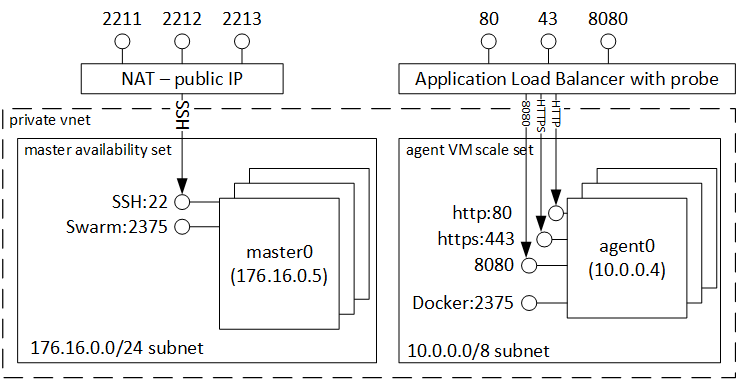
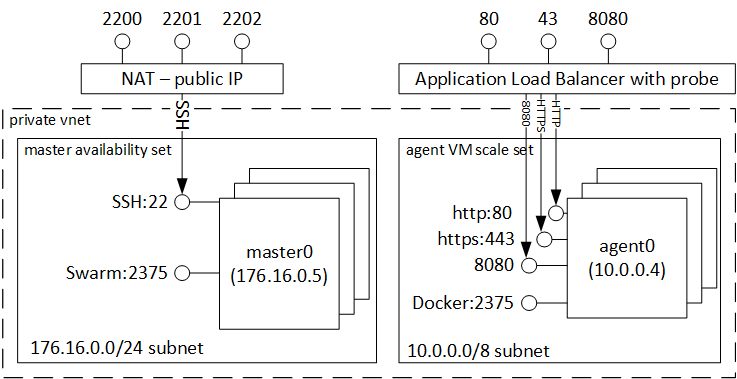
update swarm readme file

diff --git a/acs-swarm-full-template/docs/SwarmPreviewWalkthrough.md b/acs-swarm-full-template/docs/SwarmPreviewWalkthrough.md
@@ -4,20 +4,15 @@ This walkthrough assumes you have deployed an ACS cluster with a Docker Swarm or
 
  Once your container service has been created you will have a resource group containing 2 parts:
 
-1. a set of 1,3,5 masters in a master specific availability set.  Each master's SSH can be accessed via the public dns address at ports 2200..2204
+1. a set of 1,3, or 5 masters in a master specific availability set.  Each master's SSH can be accessed via the public dns address at ports 2200..2204
 
-2. a set of agents behind in an agent specific availability set.  The agent VMs must be accessed through the master.
+2. a set of agents in a VM scale set (VMSS).  The agent VMs must be accessed through the master.  See [agent forwarding]([SSH Key Generation](https://github.com/rgardler/azure-quickstart-templates/blob/acs/acs-swarm-full-template/docs/SSHKeyManagement.md#key-management-and-agent-forwarding-with-windows-pageant) for an example of how to do this.
 
-The following image is an example of a container service with 3 masters, and 3 agents:
+The following image shows the architecture of a container service cluster with 3 masters, and 3 agents:
 
  ![Image of Swarm container service on azure](https://raw.githubusercontent.com/rgardler/azure-quickstart-templates/acs/acs-swarm-full-template/images/swarm.png)
 
- All VMs are in the same VNET where the masters are on private subnet 176.16.0.0/24 and the agents are on the private subnet, 10.0.0.0/8, and fully accessible to each other.
-## Deployment Notes
-
-Here are notes for troubleshooting:
-  * the installation log for the masters, agents, and jumpbox are in /var/log/azure/cluster-bootstrap.log
-  * even though the agent VMs finish quickly Mesos can take 5-15 minutes to install, check /var/log/azure/cluster-bootstrap.log for the completion status.
+ All VMs are in the same VNET where the masters are on private subnet 172.16.0.0/24 and the agents are on the private subnet, 10.0.0.0/8, and fully accessible to each other.
 
 ## Explore Swarm with Simple hello world
  1. After successfully deploying the template write down the two output master and agent FQDNs (Fully Qualified Domain Name).
@@ -29,10 +24,10 @@ Here are notes for troubleshooting:
     4. then click on the "Microsoft.Template"
     5. now you can copy the output FQDNs and sample SSH commands
     ![Image of docker scaling](https://raw.githubusercontent.com/rgardler/azure-quickstart-templates/acs/acs-swarm-full-template/images/findingoutputs.png)
- 2. SSH to port 2200 of the master FQDN
- 3. Type `docker -H 176.16.0.5:2375 info` to see the status of the agent nodes.
+ 2. SSH to port 2200 of the master FQDN. See [agent forwarding]([SSH Key Generation](https://github.com/rgardler/azure-quickstart-templates/blob/acs/acs-swarm-full-template/docs/SSHKeyManagement.md#key-management-and-agent-forwarding-with-windows-pageant) for an example of how to do this.
+ 3. Type `docker -H 172.16.0.5:2375 info` to see the status of the agent nodes.
  ![Image of docker info](https://raw.githubusercontent.com/rgardler/azure-quickstart-templates/acs/acs-swarm-full-template/images/dockerinfo.png)
- 4. Type `docker -H 176.16.0.5:2375 run hello-world` to see the hello-world test app run on one of the agents
+ 4. Type `docker -H 172.16.0.5:2375 run hello-world` to see the hello-world test app run on one of the agents
 
 ## Explore Swarm with a web-based Compose Script, then scale the script to all agents
 1. create the following docker-compose.yml file:
@@ -43,7 +38,7 @@ echo """web:
     - \"80:80\"
   restart: \"always\" """ > docker-compose.yml
 ```
-2. type `export DOCKER_HOST=176.16.0.5:2375` so that docker-compose automatically hits the swarm endpoints
+2. type `export DOCKER_HOST=172.16.0.5:2375` so that docker-compose automatically hits the swarm endpoints
 3. type `docker-compose up -d` to create the simple web server.  This will take a few minutes to pull the image
 4. once completed, type `docker ps` to see the running image.
  ![Image of docker ps](https://raw.githubusercontent.com/rgardler/azure-quickstart-templates/acs/acs-swarm-full-template/images/dockerps.png)

diff --git a/acs-mesos-full-template/docs/SSHKeyManagement.md b/acs-mesos-full-template/docs/SSHKeyManagement.md
@@ -1,0 +1,25 @@
+# SSH Key Management
+
+## SSH Key Generation
+
+When creating container services, you will need an SSH RSA key for access.  Use the following articles to create your SSH RSA Key:
+
+1. Windows - https://www.digitalocean.com/community/tutorials/how-to-create-ssh-keys-with-putty-to-connect-to-a-vps
+2. Linux - https://help.ubuntu.com/community/SSH/OpenSSH/Keys#Generating_RSA_Keys
+3. Mac - https://help.github.com/articles/generating-ssh-keys/#platform-mac
+
+# Key Management and Agent Forwarding with Windows Pageant
+
+Pageant enables agent forwarding.  This means that you can SSH from any of the master nodes directly to any of the agent nodes.  Here are the steps to enable this:
+ 1. Download and install Putty Pageant.
+ 2. Double Click on pageant.exe to run, and you will notice it appears in your tray
+ ![Image of Pageant in the tray](https://raw.githubusercontent.com/rgardler/azure-quickstart-templates/acs/acs-mesos-full-template/images/pageant-tray.png)
+ 3. Right click on Pageant in the tray and click "View Keys"
+ 4. Click "Add Key", and add your PPK generated in (#ssh-key-generation).
+ ![Image of Pageant addkey](https://raw.githubusercontent.com/rgardler/azure-quickstart-templates/acs/acs-mesos-full-template/images/pageant-addkey.png)
+ 5. Now try out the configuration by opening up Putty.exe
+ 6. Type in "azureuser@FQDN" and port 2200 where FQDN is the management name returned after deploying a cluster and port:
+ ![Image of Putty main](https://raw.githubusercontent.com/rgardler/azure-quickstart-templates/acs/acs-mesos-full-template/images/putty-address.png)
+ 7. Browse to Connection->SSH->Auth and click "Allow agent forwarding":
+ ![Image of Putty SSH](https://raw.githubusercontent.com/rgardler/azure-quickstart-templates/acs/acs-mesos-full-template/images/putty-agentforwarding.png)
+ 8. Click "Open" to connect to the master.  Now ssh directly to an agent, and you will connect automatically.

diff --git a/acs-mesos-full-template/README.md b/acs-mesos-full-template/README.md
@@ -10,13 +10,5 @@ Click the "Deploy to Azure" button and then choose from the list of walkthrough 
 2. [SwarmPreview](https://github.com/rgardler/azure-quickstart-templates/blob/acs/acs-swarm-full-template/docs/SwarmPreviewWalkthrough.md) - The Docker Swarm orchestrator [walkthrough](https://github.com/rgardler/azure-quickstart-templates/blob/acs/acs-swarm-full-template/docs/SwarmPreviewWalkthrough.md).
 
 ## Deployment Tips:
-1. You will need to provide an SSH RSA public key.  Follow instructions to generate SSH RSA keys in section [SSH Key Generation](#ssh-key-generation).  Your key should include three parts, for example ```ssh-rsa AAAAB...snip...UcyupgH azureuser@linuxvm```
+1. You will need to provide an SSH RSA public key.  Follow instructions to generate SSH RSA keys in section [SSH Key Generation](https://github.com/rgardler/azure-quickstart-templates/blob/acs/acs-swarm-full-template/docs/SSHKeyManagement.md#ssh-key-generation).  Your key should include three parts, for example ```ssh-rsa AAAAB...snip...UcyupgH azureuser@linuxvm```
 2. As a best practice, create a new resource group for every new container service you deploy.
-
-## SSH Key Generation
-
-When creating container services, you will need an SSH RSA key for access.  Use the following articles to create your SSH RSA Key:
-
-1. Windows - https://www.digitalocean.com/community/tutorials/how-to-create-ssh-keys-with-putty-to-connect-to-a-vps
-2. Linux - https://help.ubuntu.com/community/SSH/OpenSSH/Keys#Generating_RSA_Keys
-3. Mac - https://help.github.com/articles/generating-ssh-keys/#platform-mac

diff --git a/acs-swarm-full-template/README.md b/acs-swarm-full-template/README.md
@@ -10,13 +10,5 @@ Click the "Deploy to Azure" button and then choose from the list of walkthrough 
 2. [SwarmPreview](https://github.com/rgardler/azure-quickstart-templates/blob/acs/acs-swarm-full-template/docs/SwarmPreviewWalkthrough.md) - The Docker Swarm orchestrator [walkthrough](https://github.com/rgardler/azure-quickstart-templates/blob/acs/acs-swarm-full-template/docs/SwarmPreviewWalkthrough.md).
 
 ## Deployment Tips:
-1. You will need to provide an SSH RSA public key.  Follow instructions to generate SSH RSA keys in section [SSH Key Generation](#ssh-key-generation).  Your key should include three parts, for example ```ssh-rsa AAAAB...snip...UcyupgH azureuser@linuxvm```
+1. You will need to provide an SSH RSA public key.  Follow instructions to generate SSH RSA keys in section [SSH Key Generation](https://github.com/rgardler/azure-quickstart-templates/blob/acs/acs-swarm-full-template/docs/SSHKeyManagement.md#ssh-key-generation).  Your key should include three parts, for example ```ssh-rsa AAAAB...snip...UcyupgH azureuser@linuxvm```
 2. As a best practice, create a new resource group for every new container service you deploy.
-
-## SSH Key Generation
-
-When creating container services, you will need an SSH RSA key for access.  Use the following articles to create your SSH RSA Key:
-
-1. Windows - https://www.digitalocean.com/community/tutorials/how-to-create-ssh-keys-with-putty-to-connect-to-a-vps
-2. Linux - https://help.ubuntu.com/community/SSH/OpenSSH/Keys#Generating_RSA_Keys
-3. Mac - https://help.github.com/articles/generating-ssh-keys/#platform-mac

diff --git a/acs-mesos-full-template/docs/MesosWalkthrough.md b/acs-mesos-full-template/docs/MesosWalkthrough.md
@@ -10,7 +10,7 @@ Once your container service has been created you will have a resource group cont
 
 3. if chosen, a windows or linux jumpbox
 
-The following image is an example of a container service with 1 jumpbox, 3 masters, and 3 agents:
+The following image shows the architecture of a container service cluster with 3 masters, and 3 agents:
 
 ![Image of Mesos container service on azure](https://raw.githubusercontent.com/rgardler/azure-quickstart-templates/acs/acs-mesos-full-template/images/mesos.png)
 
@@ -25,7 +25,7 @@ In the image above, you can see the following parts:
 4. **Chronos on port 4400** - Chronos is a scheduler for Mesos that is equivalent to cron on a single linux machine: it schedules periodic tasks for the whole cluster.
 5. **Docker on port 2375** - The Docker engine runs containerized workloads and each Agent runs the Docker engine.  Mesos runs Docker workloads, and examples on how to do this are provided in the Marathon and Chronos walkthrough sections of this readme.
 
- All VMs are in the same VNET where the masters are on private subnet 176.16.0.0/24 and the agents are on the private subnet, 10.0.0.0/8, and fully accessible to each other.
+ All VMs are in the same VNET where the masters are on private subnet 172.16.0.0/24 and the agents are on the private subnet, 10.0.0.0/8, and fully accessible to each other.
 
 ## Deployment Notes
 
